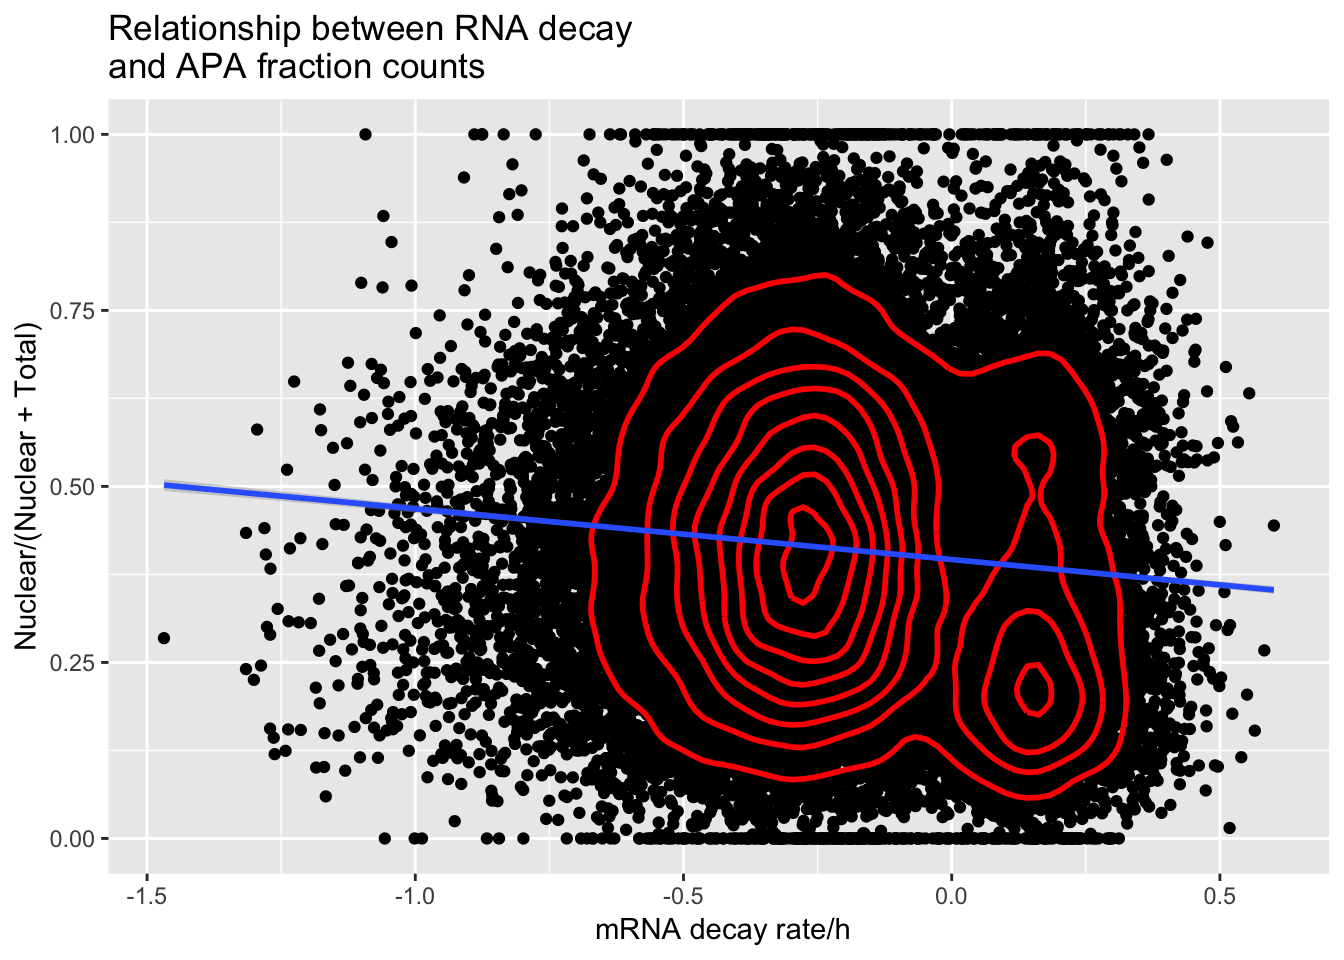
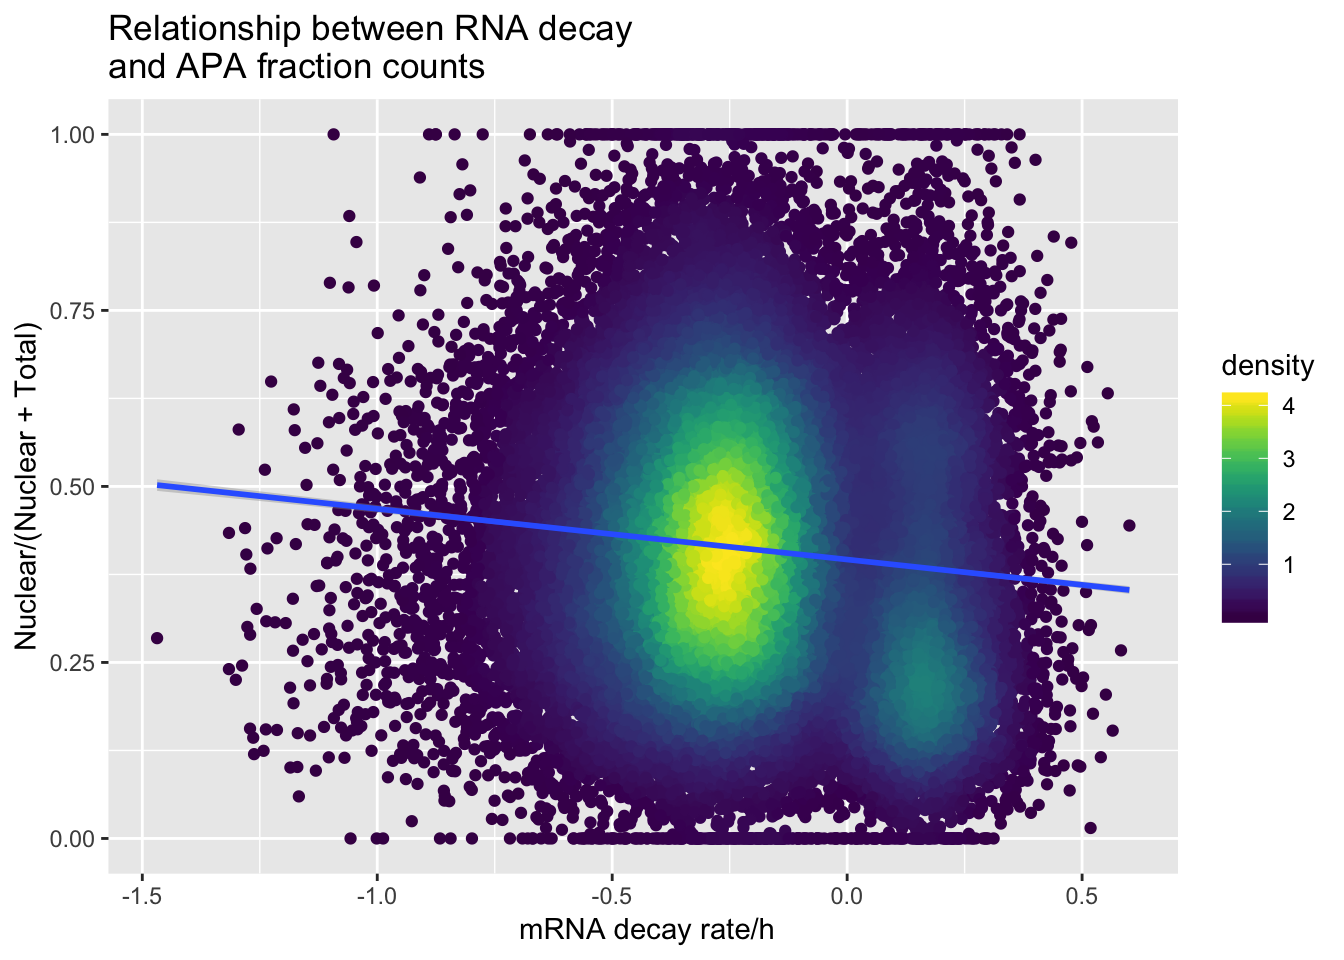
Build site.

diff --git a/docs/RNAdecayAndAPA.html b/docs/RNAdecayAndAPA.html
@@ -439,7 +439,7 @@ div.section {
 <div class="tab-content">
 <div id="summary" class="tab-pane fade in active">
 <p>
-<strong>Last updated:</strong> 2019-03-18
+<strong>Last updated:</strong> 2019-03-19
 </p>
 <p>
 <strong>Checks:</strong> <span class="glyphicon glyphicon-ok text-success" aria-hidden="true"></span> 6 <span class="glyphicon glyphicon-exclamation-sign text-danger" aria-hidden="true"></span> 0
@@ -518,10 +518,10 @@ This reproducible <a href="http://rmarkdown.rstudio.com">R Markdown</a> analysis
 <div class="panel panel-default">
 <div class="panel-heading">
 <p class="panel-title">
-<a data-toggle="collapse" data-parent="#workflowr-checks" href="#strongRepositoryversionstrongahrefhttpsgithubcombrimittlemanthreeprimeseqtree52ab38685cd8082a58948e6731e15f7d489b371etargetblank52ab386a"> <span class="glyphicon glyphicon-ok text-success" aria-hidden="true"></span> <strong>Repository version:</strong> <a href="https://github.com/brimittleman/threeprimeseq/tree/52ab38685cd8082a58948e6731e15f7d489b371e" target="_blank">52ab386</a> </a>
+<a data-toggle="collapse" data-parent="#workflowr-checks" href="#strongRepositoryversionstrongahrefhttpsgithubcombrimittlemanthreeprimeseqtree6e940ea6c45c7aa3ea089bc9a36e7973d11d743ctargetblank6e940eaa"> <span class="glyphicon glyphicon-ok text-success" aria-hidden="true"></span> <strong>Repository version:</strong> <a href="https://github.com/brimittleman/threeprimeseq/tree/6e940ea6c45c7aa3ea089bc9a36e7973d11d743c" target="_blank">6e940ea</a> </a>
 </p>
 </div>
[2 lines of base64/hex data omitted]
 <div class="panel-body">
 <p>
 Great! You are using Git for version control. Tracking code development and connecting the code version to the results is critical for reproducibility. The version displayed above was the version of the Git repository at the time these results were generated. <br><br> Note that you need to be careful to ensure that all relevant files for the analysis have been committed to Git prior to generating the results (you can use <code>wflow_publish</code> or <code>wflow_git_commit</code>). workflowr only checks the R Markdown file, but you know if there are other scripts or data files that it depends on. Below is the status of the Git repository when the results were generated:
@@ -553,6 +553,7 @@ Untracked files:
     Untracked:  data/AllPeak_counts/
     Untracked:  data/ApaQTLs/
     Untracked:  data/ApaQTLs_otherPhen/
+    Untracked:  data/CTCF/
     Untracked:  data/ChromHmmOverlap/
     Untracked:  data/DistTXN2Peak_genelocAnno/
     Untracked:  data/EmpiricalDists/
@@ -662,6 +663,7 @@ Untracked files:
     Untracked:  data/threePrimeSeqMetaData55Ind_noDup.xlsx
     Untracked:  data/threePrimeSeqMetaData55Ind_noDup_WASPMAP.txt
     Untracked:  data/threePrimeSeqMetaData55Ind_noDup_WASPMAP.xlsx
+    Untracked:  manuscript/
     Untracked:  output/LZ/
     Untracked:  output/deeptools_plots/
     Untracked:  output/picard/
@@ -671,7 +673,6 @@ Untracked files:
 Unstaged changes:
     Modified:   analysis/28ind.peak.explore.Rmd
     Modified:   analysis/CompareLianoglouData.Rmd
-    Modified:   analysis/EmpDistforOverlaps.Rmd
     Modified:   analysis/NewPeakPostMP.Rmd
     Modified:   analysis/NuclearSpecQTL.Rmd
     Modified:   analysis/PeakToXper.Rmd
@@ -738,6 +739,40 @@ Message
 </tr>
 </thead>
 <tbody>
+<tr>
+<td>
+Rmd
+</td>
+<td>
+<a href="https://github.com/brimittleman/threeprimeseq/blob/6e940ea6c45c7aa3ea089bc9a36e7973d11d743c/analysis/RNAdecayAndAPA.Rmd" target="_blank">6e940ea</a>
+</td>
+<td>
+Briana Mittleman
+</td>
+<td>
+2019-03-19
+</td>
+<td>
+change color by density
+</td>
+</tr>
+<tr>
+<td>
+html
+</td>
+<td>
+<a href="https://rawcdn.githack.com/brimittleman/threeprimeseq/7fc93c8e38e183a6ba976ec5cb1e09b57ffc4842/docs/RNAdecayAndAPA.html" target="_blank">7fc93c8</a>
+</td>
+<td>
+Briana Mittleman
+</td>
+<td>
+2019-03-18
+</td>
+<td>
+Build site.
+</td>
+</tr>
 <tr>
 <td>
 Rmd
@@ -818,12 +853,20 @@ Attaching package: &#39;reshape2&#39;</code></pre>
 <pre><code>The following object is masked from &#39;package:tidyr&#39;:
 
     smiths</code></pre>
-<pre class="r"><code>decay=read.table(file = &quot;../data/RNAdecay/tr_decay_table_norm.txt&quot;, header=T, stringsAsFactors = F) %&gt;% select(gene_id,contains(&quot;RNAdecay&quot;))</code></pre>
+<pre class="r"><code>library(MASS)</code></pre>
+<pre><code>
+Attaching package: &#39;MASS&#39;</code></pre>
+<pre><code>The following object is masked from &#39;package:dplyr&#39;:
+
+    select</code></pre>
+<pre class="r"><code>library(viridis)</code></pre>
+<pre><code>Loading required package: viridisLite</code></pre>
+<pre class="r"><code>decay=read.table(file = &quot;../data/RNAdecay/tr_decay_table_norm.txt&quot;, header=T, stringsAsFactors = F) %&gt;% dplyr::select(gene_id,contains(&quot;RNAdecay&quot;))</code></pre>
 <p>Change gene names:</p>
 <pre class="r"><code>geneNames=read.table(&quot;../data/ensemble_to_genename.txt&quot;, sep=&quot;\t&quot;, col.names = c(&#39;gene_id&#39;, &#39;GeneName&#39;, &#39;source&#39; ),stringsAsFactors = F)</code></pre>
-<pre class="r"><code>decay_geneNames=decay %&gt;% inner_join(geneNames, by=&quot;gene_id&quot;) %&gt;% select(GeneName, contains(&quot;RNAdecay&quot;))
+<pre class="r"><code>decay_geneNames=decay %&gt;% inner_join(geneNames, by=&quot;gene_id&quot;) %&gt;% dplyr::select(GeneName, contains(&quot;RNAdecay&quot;))
 
-decay_geneNames_long=melt(decay_geneNames,id.vars = &quot;GeneName&quot;, value.name = &quot;RNA_Decay&quot;, variable.name = &quot;Decay_Ind&quot;) %&gt;% separate(Decay_Ind, into=c(&quot;type&quot;, &quot;ind&quot;), sep=&quot;_&quot;) %&gt;% mutate(Individual=paste(&quot;X&quot; , ind, sep=&quot;&quot;)) %&gt;% select(GeneName, Individual, RNA_Decay)</code></pre>
+decay_geneNames_long=melt(decay_geneNames,id.vars = &quot;GeneName&quot;, value.name = &quot;RNA_Decay&quot;, variable.name = &quot;Decay_Ind&quot;) %&gt;% separate(Decay_Ind, into=c(&quot;type&quot;, &quot;ind&quot;), sep=&quot;_&quot;) %&gt;% mutate(Individual=paste(&quot;X&quot; , ind, sep=&quot;&quot;)) %&gt;% dplyr::select(GeneName, Individual, RNA_Decay)</code></pre>
 <div id="prepare-apa-value" class="section level2">
 <h2>Prepare apa value:</h2>
 <p>For each gene I need to get nuclear counts/nuclear + counts</p>
@@ -844,28 +887,28 @@ OutPutdic={}
 </code></pre>
 <p>Try in R</p>
 <p>Nuclear first:</p>
-<pre class="r"><code>NucAPA=read.table(&quot;../data/filtPeakOppstrand_cov_noMP_GeneLocAnno_5perc/filtered_APApeaks_merged_allchrom_refseqGenes.GeneLocAnno_NoMP_sm_quant.Nuclear.fixed.5perc.fc&quot;, stringsAsFactors = F, header = T) %&gt;% select(-Chr, -Start, -End, -Strand, -Length) %&gt;% separate(Geneid, into=c(&quot;peak&quot;, &quot;chrom&quot;, &quot;start&quot;, &quot;end&quot;, &quot;strand&quot;, &quot;GeneName&quot;), sep=&quot;:&quot;) %&gt;% select(-chrom, -start, -end, -strand)
+<pre class="r"><code>NucAPA=read.table(&quot;../data/filtPeakOppstrand_cov_noMP_GeneLocAnno_5perc/filtered_APApeaks_merged_allchrom_refseqGenes.GeneLocAnno_NoMP_sm_quant.Nuclear.fixed.5perc.fc&quot;, stringsAsFactors = F, header = T) %&gt;% dplyr::select(-Chr, -Start, -End, -Strand, -Length) %&gt;% separate(Geneid, into=c(&quot;peak&quot;, &quot;chrom&quot;, &quot;start&quot;, &quot;end&quot;, &quot;strand&quot;, &quot;GeneName&quot;), sep=&quot;:&quot;) %&gt;% dplyr::select(-chrom, -start, -end, -strand)
 
-NucApaMelt=melt(NucAPA, id.vars =c( &quot;peak&quot;, &quot;GeneName&quot;), value.name=&quot;count&quot;, variable.name=&quot;Ind&quot;) %&gt;% separate(Ind, into=c(&#39;Individual&#39;, &#39;fraction&#39;) ,sep=&quot;_&quot;) %&gt;% select(peak, GeneName, Individual, count)
+NucApaMelt=melt(NucAPA, id.vars =c( &quot;peak&quot;, &quot;GeneName&quot;), value.name=&quot;count&quot;, variable.name=&quot;Ind&quot;) %&gt;% separate(Ind, into=c(&#39;Individual&#39;, &#39;fraction&#39;) ,sep=&quot;_&quot;) %&gt;% dplyr::select(peak, GeneName, Individual, count)
 
 
 NucAPA_bygene= NucApaMelt %&gt;% group_by(GeneName,Individual) %&gt;% summarise(NuclearSum=sum(count))</code></pre>
 <p>Total first:</p>
-<pre class="r"><code>TotAPA=read.table(&quot;../data/filtPeakOppstrand_cov_noMP_GeneLocAnno_5perc/filtered_APApeaks_merged_allchrom_refseqGenes.GeneLocAnno_NoMP_sm_quant.Total.fixed.5perc.fc&quot;, stringsAsFactors = F, header = T) %&gt;% select(-Chr, -Start, -End, -Strand, -Length) %&gt;% separate(Geneid, into=c(&quot;peak&quot;, &quot;chrom&quot;, &quot;start&quot;, &quot;end&quot;, &quot;strand&quot;, &quot;GeneName&quot;), sep=&quot;:&quot;) %&gt;% select(-chrom, -start, -end, -strand)
+<pre class="r"><code>TotAPA=read.table(&quot;../data/filtPeakOppstrand_cov_noMP_GeneLocAnno_5perc/filtered_APApeaks_merged_allchrom_refseqGenes.GeneLocAnno_NoMP_sm_quant.Total.fixed.5perc.fc&quot;, stringsAsFactors = F, header = T) %&gt;% dplyr::select(-Chr, -Start, -End, -Strand, -Length) %&gt;% separate(Geneid, into=c(&quot;peak&quot;, &quot;chrom&quot;, &quot;start&quot;, &quot;end&quot;, &quot;strand&quot;, &quot;GeneName&quot;), sep=&quot;:&quot;) %&gt;% dplyr::select(-chrom, -start, -end, -strand)
 
-TotApaMelt=melt(TotAPA, id.vars =c( &quot;peak&quot;, &quot;GeneName&quot;), value.name=&quot;count&quot;, variable.name=&quot;Ind&quot;)  %&gt;% separate(Ind, into=c(&#39;Individual&#39;, &#39;fraction&#39;) ,sep=&quot;_&quot;) %&gt;% select(peak, GeneName, Individual, count)
+TotApaMelt=melt(TotAPA, id.vars =c( &quot;peak&quot;, &quot;GeneName&quot;), value.name=&quot;count&quot;, variable.name=&quot;Ind&quot;)  %&gt;% separate(Ind, into=c(&#39;Individual&#39;, &#39;fraction&#39;) ,sep=&quot;_&quot;) %&gt;% dplyr::select(peak, GeneName, Individual, count)
 
 
 TotAPA_bygene=TotApaMelt %&gt;% group_by(GeneName,Individual) %&gt;% summarise(TotalSum=sum(count))</code></pre>
 <p>Sum these together:</p>
-<pre class="r"><code>Apa_all=TotAPA_bygene %&gt;% inner_join(NucAPA_bygene, by=c(&quot;GeneName&quot;, &quot;Individual&quot;)) %&gt;% filter(NuclearSum&gt;0 |TotalSum&gt;0 )  %&gt;% mutate(APAvalue=NuclearSum/(NuclearSum+TotalSum)) %&gt;% select(GeneName, Individual, APAvalue)</code></pre>
+<pre class="r"><code>Apa_all=TotAPA_bygene %&gt;% inner_join(NucAPA_bygene, by=c(&quot;GeneName&quot;, &quot;Individual&quot;)) %&gt;% filter(NuclearSum&gt;0 |TotalSum&gt;0 )  %&gt;% mutate(APAvalue=NuclearSum/(NuclearSum+TotalSum)) %&gt;% dplyr::select(GeneName, Individual, APAvalue)</code></pre>
 </div>
 <div id="join-ith-decay" class="section level2">
 <h2>Join ith decay</h2>
 <pre class="r"><code>APAandDecay=decay_geneNames_long %&gt;% inner_join(Apa_all, by=c(&#39;GeneName&#39;, &#39;Individual&#39;))
 
 
-ngenes=APAandDecay %&gt;% select(GeneName) %&gt;% unique() %&gt;% nrow()
+ngenes=APAandDecay %&gt;% dplyr::select(GeneName) %&gt;% unique() %&gt;% nrow()
 ngenes</code></pre>
 <pre><code>[1] 7888</code></pre>
 <p>plot it:</p>
@@ -1000,15 +1043,15 @@ F-statistic: 62.46 on 1 and 7766 DF,  p-value: 3.094e-15</code></pre>
 <div id="look-at-most-variable-decay-values" class="section level3">
 <h3>Look at most variable decay values</h3>
 <p>Most of the genes have a similar decay rate. To se if there is a trend I need to look at the genes with &gt;1sd outside of the mean.</p>
-<pre class="r"><code>decay_zscore=decay_geneNames_long  %&gt;% mutate(mean=mean(RNA_Decay), sd=sd(RNA_Decay)) %&gt;%  group_by(GeneName) %&gt;% mutate(geneMean=mean(RNA_Decay)) %&gt;% mutate(Zscore=(geneMean-mean)/sd) %&gt;% select(GeneName, Zscore) %&gt;% unique() 
+<pre class="r"><code>decay_zscore=decay_geneNames_long  %&gt;% mutate(mean=mean(RNA_Decay), sd=sd(RNA_Decay)) %&gt;%  group_by(GeneName) %&gt;% mutate(geneMean=mean(RNA_Decay)) %&gt;% mutate(Zscore=(geneMean-mean)/sd) %&gt;% dplyr::select(GeneName, Zscore) %&gt;% unique() 
 
 
 
-decay_1sd= decay_zscore %&gt;% filter(abs(Zscore)&gt;1) %&gt;% select(GeneName)</code></pre>
+decay_1sd= decay_zscore %&gt;% filter(abs(Zscore)&gt;1) %&gt;% dplyr::select(GeneName)</code></pre>
 <p>Filter the apa and decay for these genes.</p>
 <pre class="r"><code>APAandDecay_1sd= APAandDecay %&gt;% filter(GeneName %in% decay_1sd$GeneName)
 
-APAandDecay_1sd %&gt;% select(GeneName) %&gt;% unique() %&gt;% nrow()</code></pre>
+APAandDecay_1sd %&gt;% dplyr::select(GeneName) %&gt;% unique() %&gt;% nrow()</code></pre>
 <pre><code>[1] 938</code></pre>
 <pre class="r"><code>summary(lm(data=APAandDecay_1sd, APAvalue~RNA_Decay))</code></pre>
 <pre><code>
@@ -1029,14 +1072,79 @@ Signif. codes:  0 &#39;***&#39; 0.001 &#39;**&#39; 0.01 &#39;*&#39; 0.05 &#39;.&
 Residual standard error: 0.1868 on 47713 degrees of freedom
 Multiple R-squared:  0.009982,  Adjusted R-squared:  0.009962 
 F-statistic: 481.1 on 1 and 47713 DF,  p-value: &lt; 2.2e-16</code></pre>
-<pre class="r"><code>APAdecalAllindplot_zgreat1=ggplot(APAandDecay_1sd, aes(y=APAvalue, x=RNA_Decay)) + geom_point() +geom_density2d(na.rm = TRUE, size = 1, colour = &#39;red&#39;) + geom_smooth(method=&quot;lm&quot;)+ labs(title=&quot;Relationship between RNA decay \nand APA fraction counts&quot;, x=&quot; mRNA decay rate/h&quot;, y= &quot;Nuclear/(Nuclear + Total)&quot;)
+<pre class="r"><code>get_density &lt;- function(x, y, ...) {
+  dens &lt;- MASS::kde2d(x, y, ...)
+  ix &lt;- findInterval(x, dens$x)
+  iy &lt;- findInterval(y, dens$y)
+  ii &lt;- cbind(ix, iy)
+  return(dens$z[ii])
+}
+
+set.seed(1)
+dat &lt;- data.frame(
+  x = c(
+    rnorm(1e4, mean = 0, sd = 0.1),
+    rnorm(1e3, mean = 0, sd = 0.1)
+  ),
+  y = c(
+    rnorm(1e4, mean = 0, sd = 0.1),
+    rnorm(1e3, mean = 0.1, sd = 0.2)
+  )
+)
+
+APAandDecay_1sd$density &lt;- get_density(APAandDecay_1sd$APAvalue, APAandDecay_1sd$RNA_Decay, n = 100)
+
+
+APAdecalAllindplot_zgreat1=ggplot(APAandDecay_1sd, aes(y=APAvalue, x=RNA_Decay)) + geom_point(aes(color=density))+ geom_smooth(method=&quot;lm&quot;)+ labs(title=&quot;Relationship between RNA decay \nand APA fraction counts&quot;, x=&quot; mRNA decay rate/h&quot;, y= &quot;Nuclear/(Nuclear + Total)&quot;)  + scale_color_viridis()
+
 
 APAdecalAllindplot_zgreat1</code></pre>
 <p><img src="figure/RNAdecayAndAPA.Rmd/unnamed-chunk-14-1.png" width="672" style="display: block; margin: auto;" /></p>
+<p>
+<button type="button" class="btn btn-default btn-xs btn-workflowr btn-workflowr-fig" data-toggle="collapse" data-target="#fig-unnamed-chunk-14-1">
+Past versions of unnamed-chunk-14-1.png
+</button>
+</p>
+<div id="fig-unnamed-chunk-14-1" class="collapse">
+<div class="table-responsive">
+<table class="table table-condensed table-hover">
+<thead>
+<tr>
+<th>
+Version
+</th>
+<th>
+Author
+</th>
+<th>
+Date
+</th>
+</tr>
+</thead>
+<tbody>
+<tr>
+<td>
+<a href="https://github.com/brimittleman/threeprimeseq/blob/7fc93c8e38e183a6ba976ec5cb1e09b57ffc4842/docs/figure/RNAdecayAndAPA.Rmd/unnamed-chunk-14-1.png" target="_blank">7fc93c8</a>
+</td>
+<td>
+Briana Mittleman
+</td>
+<td>
+2019-03-18
+</td>
+</tr>
+</tbody>
+</table>
+</div>
+</div>
 <pre class="r"><code>ggsave(APAdecalAllindplot_zgreat1, file=&quot;../output/plots/APAandRNADecay1SD_allInd.png&quot;, height = 7, width=7)</code></pre>
 <pre class="r"><code>APAandDecay1SD_18498= APAandDecay_1sd %&gt;% filter(Individual==&quot;X18498&quot;)
 
-APAdecay1sqd_18498=ggplot(APAandDecay1SD_18498, aes(y=APAvalue, x=RNA_Decay)) + geom_point() +geom_density2d(na.rm = TRUE, size = 1, colour = &#39;red&#39;)+geom_smooth(method=&quot;lm&quot;)+ labs(title=&quot;Relationship between RNA decay \nand APA fraction counts&quot;, x=&quot; mRNA decay rate/h&quot;, y= &quot;Nuclear/(Nuclear + Total)&quot;)
+
+
+APAandDecay1SD_18498$density &lt;- get_density(APAandDecay1SD_18498$APAvalue, APAandDecay1SD_18498$RNA_Decay, n = 100)
+
+APAdecay1sqd_18498=ggplot(APAandDecay1SD_18498, aes(y=APAvalue, x=RNA_Decay)) + geom_point(aes(color=density)) +geom_smooth(method=&quot;lm&quot;)+ labs(title=&quot;Relationship between RNA decay \nand APA fraction counts&quot;, x=&quot; mRNA decay rate/h&quot;, y= &quot;Nuclear/(Nuclear + Total)&quot;) + scale_color_viridis()
 
 summary(lm(data=APAandDecay1SD_18498, APAvalue~RNA_Decay))</code></pre>
 <pre><code>
@@ -1059,6 +1167,43 @@ Multiple R-squared:  0.06867,   Adjusted R-squared:  0.06766
 F-statistic: 68.42 on 1 and 928 DF,  p-value: 4.556e-16</code></pre>
 <pre class="r"><code>APAdecay1sqd_18498</code></pre>
 <p><img src="figure/RNAdecayAndAPA.Rmd/unnamed-chunk-15-1.png" width="672" style="display: block; margin: auto;" /></p>
+<p>
+<button type="button" class="btn btn-default btn-xs btn-workflowr btn-workflowr-fig" data-toggle="collapse" data-target="#fig-unnamed-chunk-15-1">
+Past versions of unnamed-chunk-15-1.png
+</button>
+</p>
+<div id="fig-unnamed-chunk-15-1" class="collapse">
+<div class="table-responsive">
+<table class="table table-condensed table-hover">
+<thead>
+<tr>
+<th>
+Version
+</th>
+<th>
+Author
+</th>
+<th>
+Date
+</th>
+</tr>
+</thead>
+<tbody>
+<tr>
+<td>
+<a href="https://github.com/brimittleman/threeprimeseq/blob/7fc93c8e38e183a6ba976ec5cb1e09b57ffc4842/docs/figure/RNAdecayAndAPA.Rmd/unnamed-chunk-15-1.png" target="_blank">7fc93c8</a>
+</td>
+<td>
+Briana Mittleman
+</td>
+<td>
+2019-03-18
+</td>
+</tr>
+</tbody>
+</table>
+</div>
+</div>
 <pre class="r"><code>ggsave(APAdecay1sqd_18498, file=&quot;../output/plots/APAandRNADecay1SD_18498.png&quot;)</code></pre>
 <pre><code>Saving 7 x 5 in image</code></pre>
 <br> <br>
@@ -1084,24 +1229,26 @@ attached base packages:
 [1] stats     graphics  grDevices utils     datasets  methods   base     
 
 other attached packages:
- [1] reshape2_1.4.3  forcats_0.4.0   stringr_1.4.0   dplyr_0.8.0.1  
- [5] purrr_0.3.1     readr_1.3.1     tidyr_0.8.3     tibble_2.0.1   
- [9] ggplot2_3.1.0   tidyverse_1.2.1
+ [1] viridis_0.5.1     viridisLite_0.3.0 MASS_7.3-51.1    
+ [4] reshape2_1.4.3    forcats_0.4.0     stringr_1.4.0    
+ [7] dplyr_0.8.0.1     purrr_0.3.1       readr_1.3.1      
+[10] tidyr_0.8.3       tibble_2.0.1      ggplot2_3.1.0    
+[13] tidyverse_1.2.1  
 
 loaded via a namespace (and not attached):
- [1] Rcpp_1.0.0       cellranger_1.1.0 plyr_1.8.4       pillar_1.3.1    
- [5] compiler_3.5.1   git2r_0.24.0     workflowr_1.2.0  tools_3.5.1     
- [9] digest_0.6.18    lubridate_1.7.4  jsonlite_1.6     evaluate_0.13   
-[13] nlme_3.1-137     gtable_0.2.0     lattice_0.20-38  pkgconfig_2.0.2 
-[17] rlang_0.3.1      cli_1.0.1        rstudioapi_0.9.0 yaml_2.2.0      
-[21] haven_2.1.0      xfun_0.5         withr_2.1.2      xml2_1.2.0      
-[25] httr_1.4.0       knitr_1.21       hms_0.4.2        generics_0.0.2  
-[29] fs_1.2.6         rprojroot_1.3-2  grid_3.5.1       tidyselect_0.2.5
-[33] glue_1.3.0       R6_2.4.0         readxl_1.3.0     rmarkdown_1.11  
-[37] modelr_0.1.4     magrittr_1.5     whisker_0.3-2    MASS_7.3-51.1   
-[41] backports_1.1.3  scales_1.0.0     htmltools_0.3.6  rvest_0.3.2     
-[45] assertthat_0.2.0 colorspace_1.4-0 labeling_0.3     stringi_1.3.1   
-[49] lazyeval_0.2.1   munsell_0.5.0    broom_0.5.1      crayon_1.3.4    </code></pre>
+ [1] tidyselect_0.2.5 xfun_0.5         haven_2.1.0      lattice_0.20-38 
+ [5] colorspace_1.4-0 generics_0.0.2   htmltools_0.3.6  yaml_2.2.0      
+ [9] rlang_0.3.1      pillar_1.3.1     glue_1.3.0       withr_2.1.2     
+[13] modelr_0.1.4     readxl_1.3.0     plyr_1.8.4       munsell_0.5.0   
+[17] gtable_0.2.0     workflowr_1.2.0  cellranger_1.1.0 rvest_0.3.2     
+[21] evaluate_0.13    labeling_0.3     knitr_1.21       broom_0.5.1     
+[25] Rcpp_1.0.0       scales_1.0.0     backports_1.1.3  jsonlite_1.6    
+[29] fs_1.2.6         gridExtra_2.3    hms_0.4.2        digest_0.6.18   
+[33] stringi_1.3.1    grid_3.5.1       rprojroot_1.3-2  cli_1.0.1       
+[37] tools_3.5.1      magrittr_1.5     lazyeval_0.2.1   crayon_1.3.4    
+[41] whisker_0.3-2    pkgconfig_2.0.2  xml2_1.2.0       lubridate_1.7.4 
+[45] assertthat_0.2.0 rmarkdown_1.11   httr_1.4.0       rstudioapi_0.9.0
+[49] R6_2.4.0         nlme_3.1-137     git2r_0.24.0     compiler_3.5.1  </code></pre>
 </div>
 </div>
 </div>
